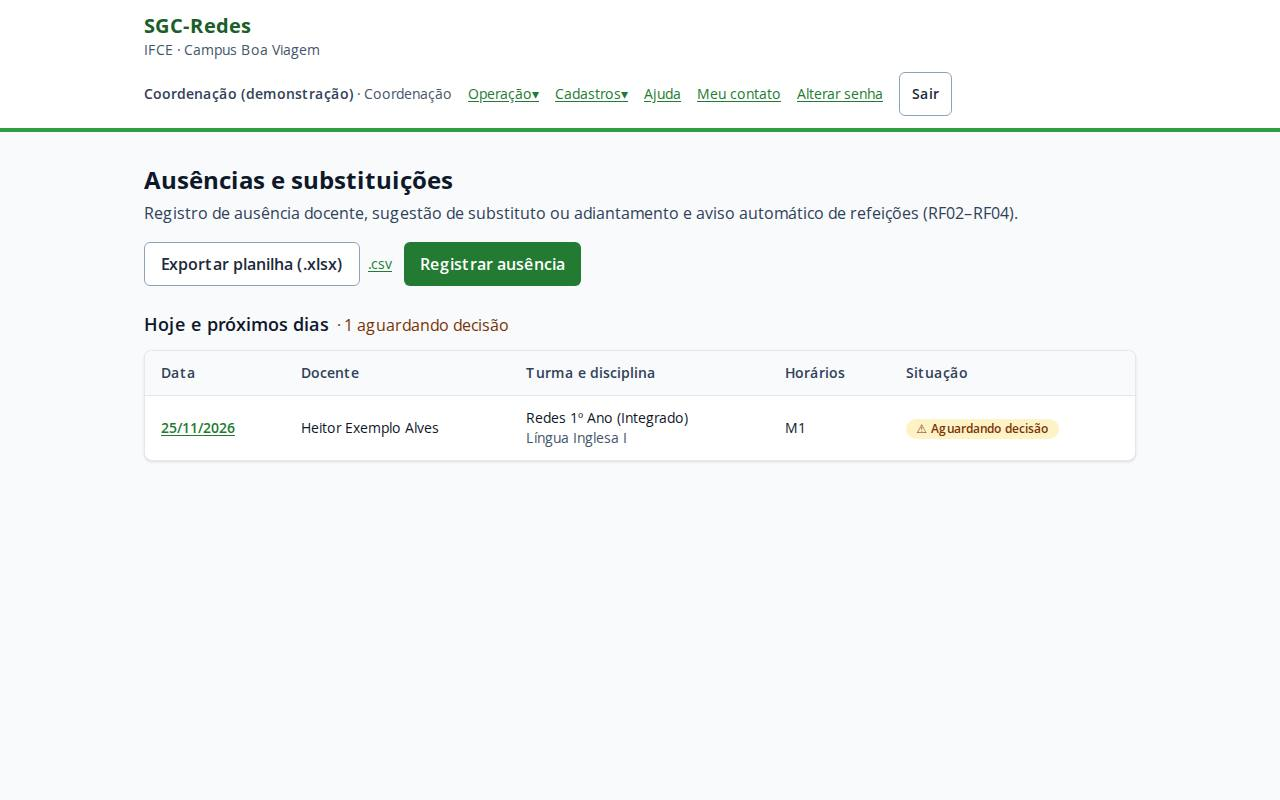
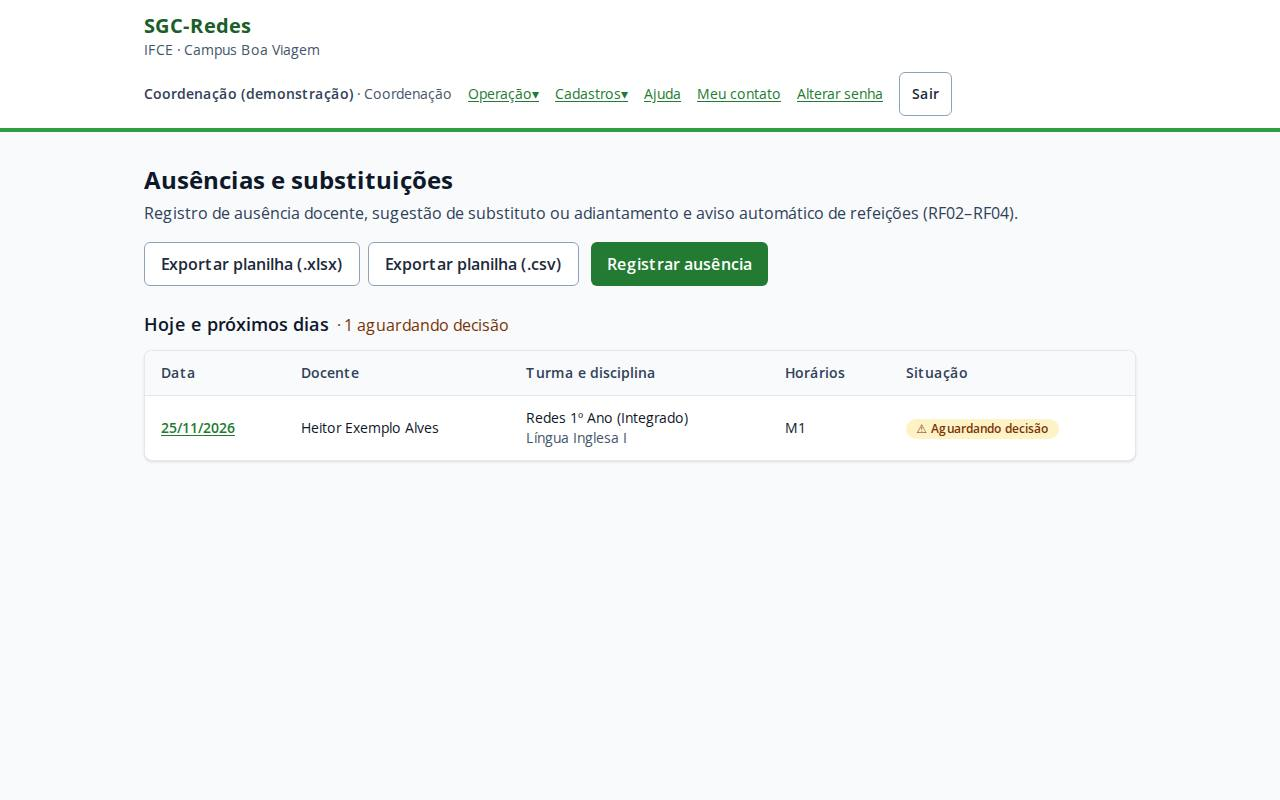
Exporta .csv por botão e atualiza o roteiro de retomada
- O formato .csv passa a ter botão do mesmo peso do .xlsx em todas as
  listagens exportáveis; capturas da Ajuda refeitas.
- Roteiro de próximos passos reescrito: estado atual, pendências do
  usuário e backlog priorizado após o primeiro pull request.

Claude-Session: https://claude.ai/code/session_01LR1XNKAMkuHKrbSHAQcsFo

Changed region(s): [[0.2812, 0.2812, 0.625, 0.375]]

diff --git a/src/components/barra-impressao.tsx b/src/components/barra-impressao.tsx
@@ -25,16 +25,20 @@ export function LinkImpressao({ href, children = 'Imprimir / PDF' }: { href: str
   );
 }
 
-/** Baixa a listagem em planilha (.xlsx; o .csv fica em ?formato=csv). Link comum: funciona sem JavaScript. */
+/**
+ * Baixa a listagem em planilha: dois botões do mesmo peso, .xlsx (Excel/LibreOffice) e .csv (texto, para outros
+ * sistemas). Links comuns estilizados como botão: funcionam sem JavaScript.
+ */
 export function LinkExportar({ href, children = 'Exportar planilha' }: { href: string; children?: React.ReactNode }) {
   const csv = `${href}${href.includes('?') ? '&' : '?'}formato=csv`;
+  const classe = 'inline-flex min-h-11 items-center rounded-md border border-slate-400 bg-white px-4 font-semibold text-slate-800 hover:bg-slate-100';
   return (
-    <span className="inline-flex flex-wrap items-center gap-2">
-      <a href={href} className="inline-flex min-h-11 items-center rounded-md border border-slate-400 bg-white px-4 font-semibold text-slate-800 hover:bg-slate-100">
+    <span role="group" aria-label="Formatos de exportação" className="inline-flex flex-wrap items-center gap-2">
+      <a href={href} className={classe}>
         {children} (.xlsx)
       </a>
-      <a href={csv} className="text-sm text-if-verde-700 underline underline-offset-2">
-        .csv
+      <a href={csv} className={classe}>
+        {children} (.csv)
       </a>
     </span>
   );

diff --git a/docs/PROXIMOS_PASSOS.md b/docs/PROXIMOS_PASSOS.md
@@ -1,7 +1,7 @@
 # Próximos Passos — Retomada do Desenvolvimento
 
-> Atualizado em **24/11/2026** (Fase 1 e 2 completas; comunicação por e-mail institucional sem depender do WhatsApp). Leia este arquivo inteiro antes de continuar. Ele resume o estado do projeto, o que
-> depende do usuário, o que fazer em seguida e as armadilhas já encontradas (para não redescobri-las).
+> Atualizado em **24/11/2026**, ao abrir o **primeiro pull request** no repositório original. Leia este arquivo inteiro
+> antes de continuar: estado do projeto, o que depende do usuário, o backlog e as armadilhas já encontradas.
 
 ---
 
@@ -9,147 +9,107 @@
 
 ```bash
 cd ~/projetos/sgc-redes-bvg
-git status && git log --oneline -20         # branch minha-contribuicao; enviada ao fork em 24/11/2026 (pergunte antes de novos push)
-./scripts/dev.sh testar                      # esperado: typecheck ok + 373 testes passando
-ls .handoff/github .handoff/e2e              # rascunhos de issue/PR e roteiros E2E (local, fora do git)
+git status && git log --oneline -8          # branch minha-contribuicao, sincronizada com o fork
+gh pr view __PR__ -R cctrc-bvg/sgc-redes-bvg # situação do PR (comentários da revisão)
+./scripts/dev.sh testar                     # esperado: typecheck ok + 380 testes passando
 ```
 
-Depois, confira a seção 3 (o que depende do usuário) antes de escolher a próxima tarefa na seção 4.
+Para ver o sistema com dados: `./scripts/dev.sh dev` num banco de desenvolvimento com
+`npm run db:demo -- --confirmo` (usuários `@exemplo.edu.br`, senha `Demonstracao2026`). Regras e arquitetura:
+[CONTRIBUTING.md](../CONTRIBUTING.md) e [Guia do contribuidor](desenvolvimento/GUIA_DO_CONTRIBUIDOR.md).
 
 ---
 
 ## 2. Estado atual
 
-**Repositórios:** `origin` = fork `isaacmiranda/sgc-redes-bvg` (admin); `upstream` = `cctrc-bvg/sgc-redes-bvg`
-(somente leitura; contém só o commit inicial com a licença). FSD, README e código existem só no fork.
+**Repositórios:**
+- `origin` = fork `isaacmiranda/sgc-redes-bvg` (público, admin), branch `minha-contribuicao`, CI verde.
+- `cctrc-bvg/sgc-redes-bvg` = original (usuário só tem leitura). Contém só o commit inicial.
+- **PR __PR__** (`minha-contribuicao` → `main`): versão inicial completa, 48 commits. O texto está em
+  `.handoff/github/pr-minha-contribuicao.md`.
+- **Novos commits no branch entram automaticamente no PR.** Por isso, peça confirmação antes de cada push.
 
-**Branch `minha-contribuicao`** — **sem PR aberto**. Enviada ao fork em 24/11/2026 com autorização do usuário; CI verde
-no GitHub. Novos `git push` continuam pedindo confirmação:
+**Pronto (Fases 1 e 2 do FSD + extras):**
+- Base: login/sessões, RBAC (5 perfis), auditoria, painel com pendências, Meu contato.
+- Cadastros: usuários, turmas, disciplinas (matriz do PPC), ofertas.
+- Operação:
+  - calendário acadêmico;
+  - grade (RF01) e sábados letivos;
+  - ausências e convites (RF02);
+  - alimentação (RF03/04);
+  - comunicação semiautomática por e-mail ou WhatsApp (RF05): textos-padrão, mensagem avulsa, grupos de docentes,
+    nutricionista, comunicar alterações da alimentação e do calendário.
+- Gestão: PPE/PEI (RF06), PPI (RF07), diários (RF08), processos SEI (RF09), relatórios.
+- Planilhas e PDF:
+  - importação com prévia: usuários, disciplinas, ofertas, grade, calendário, sábados;
+  - exportação .xlsx/.csv de todas as listagens;
+  - PDF do calendário, das grades, dos relatórios, do PEI e da ficha de PPI.
+- Documentação:
+  - Ajuda no sistema (`/ajuda`, 14 tópicos com capturas);
+  - `docs/MANUAL_DO_USUARIO.md` (gerado);
+  - CONTRIBUTING, guia do contribuidor, modelos de issue/PR;
+  - dados de demonstração (`prisma/demo.ts`).
 
-| Commit | Conteúdo |
-| :--- | :--- |
-| `8ebdce6` | Projeto executável: Next 16, React 19, Prisma 6, Tailwind 4, Vitest; Dockerfile multi-stage; migração inicial |
-| `63a28c9` | `docs/IDENTIDADE_VISUAL_UX.md` (Marca IF, contraste, Nielsen, WCAG/eMAG) + tokens de cor e Open Sans |
-| `1217372` | Correção: progresso da PPI mostrava 100% com 39,9h |
-| `1be36a8` | Testes das regras de alimentação/SLA/PEI/PPI; tabela PPI em `src/lib/ppi-regras-2022.ts` |
-| `605ec1c` | `scripts/dev.sh` (setup, testar, banco nativo/docker, dev, studio, docker, tudo) |
-| `fd88bb4` | Login, sessões no banco, RBAC do FSD, troca obrigatória de senha, auditoria; seed sem senha fixa |
-| `b62b737` | Cadastro/gestão de usuários pela Coordenação (`/usuarios`) |
-| `2389278`, `a8d3a5f` | Este roteiro; `AGENTS.md` versionado |
-| `d3cb489` | Correção: motor de alimentação valida a data (formato e calendário) |
-| `126dc21` | Catálogo de Disciplinas (`/disciplinas`), `disciplinas:gerenciar`, `Disciplina.ativa` |
-| `9dc1367` | Consulta ao catálogo (Professor, CTP, Direção: `disciplinas:ver`); matriz do PPC e blocos (G01) no seed |
-| `5afbbb0` | Núcleo, ano e semestre da disciplina (técnicas semestrais, 50% prática) |
-| `888653b` | Matriz do 3º ano corrigida: siglas SEGR, EB, PRD, RSF; Projeto de Redes 80h |
-| `ae6face` | Ofertas: distribuição de disciplinas por turma e ano letivo (`/ofertas`, `ofertas:gerenciar`) |
-| `e01c1e1` | Grade horária (RF01): turma, minha grade, edição com trava de choque, janelas, sábados letivos (G14) |
-| `060369d` | Importação em lote (.xlsx/.csv) de disciplinas e usuários, com modelos pré-preenchidos |
-| `91723c9` | Este roteiro atualizado para a retomada |
-| `0368890` | Cadastro de turmas (`/turmas`, `turmas:gerenciar`): ativos, médias de refeição, ano do curso, ativar/excluir |
-| `239604c` | Decisões G02–G13 registradas (padrões do FSD aceitos pelo usuário) |
-| `4ad4be3` | Sessões vencidas apagadas a cada login |
-| `0f79565` | **Fase 1:** ausências e coberturas (RF02), avisos de refeição e painel da AE (RF03/RF04, G02–G06, G13), comunicação semiautomática (RF05, G07/G08) |
-| `8805b79` | Tela de auditoria (`/auditoria`) |
-| `3ac54fe` | Kanban de processos SEI (RF09, `/processos`) com sigilo só para a Coordenação |
-| `48320ba` | Semáforo de diários (RF08, `/diarios`) + calendário do semestre (`PeriodoLetivo`) |
-| `e89d496` | PPI 40h (RF07, `/ppi`): tetos acumulados por categoria, certificado único, ficha para assinatura |
-| `79b0026` | PPE/PEI (RF06, `/ppe`): Art. 115, travas dos Arts. 117/121, cronograma, cópia de cronograma (G09) |
-| `6dc096e` | Relatórios consolidados (`/relatorios`), sem dados pessoais |
-| `de5ec21` | Importação em lote de ofertas e sábados letivos |
-| `d6bfb6a` | Este roteiro atualizado (madrugada) |
-| `525ef78` | CI no GitHub Actions: typecheck, testes e build (`.github/workflows/ci.yml`) |
-| `8b2562c` | PEI para impressão (`/ppe/[id]/imprimir`) |
-| `2f022d2` | Convite de substituição: Coordenação convida, docente aceita/recusa em "Minha grade" |
-| `f4b53a4` | Cabeçalho da Coordenação com menus "Operação" e "Cadastros" (`<details>`, sem JS) |
-| `124b677`, `a1c5672` | Pendências nos cards do painel; este roteiro |
-| `d3bb879` | **Comunicação sem depender do WhatsApp:** mensagens prontas com e-mail institucional, campos `{{...}}`, cópia; "Meu contato" |
-| `352024c` | Textos-padrão; nutricionista; máscara de telefone; CSV com tabulação; menus; seed no Docker |
-| *(penúltimo)* | Textos-padrão editáveis; avulsa com vários destinatários, grupos de docentes e campos; comunicar alterações da Alimentação |
-| *(último)* | Calendário acadêmico (etapas N1–N4, eventos, contagem de dias letivos); impressão/PDF; exportação em planilha |
-
-**Telas** (todas funcionam sem JavaScript):
-- Acesso: `/login`, `/painel` (cards por perfil; **todos os módulos já abrem**), `/conta/senha`, `/conta/contato`
-  (cada pessoa decide se o WhatsApp dela é usado; desligado = só e-mail).
-- Coordenação: `/usuarios` (+`/novo`, `/[id]`, `/[id]/senha`, `/importar`), `/disciplinas/nova`, `/disciplinas/importar`,
-  `/turmas` (+`/nova`, `/[id]`), `/ofertas` (+`/importar`), `/ofertas/[turmaId]?ano=AAAA`, `/grade/turma/[id]/editar`,
-  cadastro em `/grade/sabados` (+`/importar`), `/ausencias` (+`/nova`, `/[id]`), `/comunicacao`, `/auditoria`,
-  `/processos` (+`/novo`, `/[id]`), `/diarios` (+`/[ofertaId]`), `/ppi` (+`/nova`, `/[id]`, `/[id]/ficha`), `/ppe/nova`.
-- Assistência Estudantil: só `/alimentacao` (previsão por turma, avisos, ciência). Coordenação também lança acréscimos
-  (`/alimentacao/adicionar`, G05) e ajusta quantidades (G04).
-- Professor: `/grade/minha` mostra substituições/adiantamentos dos próximos 14 dias; `/diarios` (só os próprios);
-  `/ppe` e `/ppe/[id]` das disciplinas que leciona no ano (define modalidade, preenche o PEI, encerra).
-- CTP: `/ppe` (leitura, Art. 127), `/processos` (leitura, sem sigilosos), `/relatorios`. Direção: `/relatorios`.
-- Consulta (Professor, CTP, Direção conforme permissão): `/disciplinas`, `/disciplinas/[id]`, `/grade`, `/grade/minha`,
-  `/grade/turma/[id]`, `/grade/sabados`. Período da grade por `?ano=AAAA&sem=1|2`.
-- Modelos de planilha (`?formato=xlsx|csv`): `/disciplinas/importar/modelo`, `/usuarios/importar/modelo`,
-  `/ofertas/importar/modelo` (`&ano=AAAA`), `/grade/sabados/importar/modelo`.
-
-**Dados no seed** (idempotente; nunca sobrescreve edições): coordenador inicial, turmas `REDES-1..3` (com `anoCurso`;
-editáveis em `/turmas`),
-grupos e setores de comunicação (saudação padrão só para professores e líderes), regras PPI, 8 blocos de horário (A–D manhã/tarde, 60 min) e as **47 disciplinas da matriz**.
-
-**Verificado:** 322 testes unitários, typecheck, `next build` e 14 roteiros E2E sem JavaScript contra PostgreSQL
-real, todos verdes em 24/11/2026: login, usuários, disciplinas, ofertas, grade, importação, turmas, ausências (inclui comunicação, auditoria e relatórios), alimentação, processos, diários, PPI, PPE e importação de ofertas/sábados.
-As migrações que convertem dados (ofertas e grade) foram testadas com linhas no formato antigo.
-
-**Docker:** `./scripts/dev.sh docker` testado pelo usuário em 24/11/2026: build ok; o seed falhava no contêiner de migração
-(faltavam arquivos de `src/lib`), corrigido no Dockerfile; app respondeu em :3000. ExcelJS no `standalone` ainda não conferido.
+**Verificado em 24/11/2026:**
+- 380 testes unitários, typecheck e build;
+- roteiros E2E sem JS (16 roteiros em `.handoff/e2e`, local);
+- `docker compose up --build` com migração incremental sobre banco existente;
+- teste manual no navegador com JS, feito pelo usuário;
+- histórico do git sem dados reais: o branch foi reescrito em 24/11 para remover um telefone real dos testes.
 
 ---
 
 ## 3. Pendências que dependem do usuário
 
-- [ ] **Atualizar o banco Docker de desenvolvimento** (`sgc_dev_db`, já rodando): `./scripts/dev.sh banco docker` aplica
-      as migrações novas e o seed; depois `./scripts/dev.sh dev` e testar no navegador. Se esse banco recebeu a matriz
-      numa versão anterior, Projeto de Redes pode estar com 40h (o seed não sobrescreve CH): corrigir pela tela.
-      Obs.: o usuário já está no grupo `docker`; uma sessão de terminal antiga precisa de `sg docker -c "..."`.
-- [ ] **Testar a stack Docker completa:** `./scripts/dev.sh docker` (senha inicial em `docker compose logs migrate`).
-      Riscos: Prisma no Alpine (openssl/musl), motor do Prisma e **ExcelJS** no `standalone`. É pesado para 4 GB de RAM.
-- [x] ~~Enviar os commits da madrugada ao fork~~ — enviados em 24/11/2026; primeira execução do CI no GitHub passou.
-- [ ] **Testar no navegador com JavaScript** os módulos novos (os E2E são sem JS). Em especial a página da ausência
-      (caixas de mensagem: copiar, colar, substituir campos, abrir no e-mail) e a Alimentação vista pela AE.
-- [ ] **Cadastrar em `/comunicacao`** o e-mail institucional e a saudação de cada grupo/setor (CAE, CTP, Gestão,
-      professores, turmas). Sem isso as mensagens saem com "Para" vazio e um campo `{{...}}` na saudação.
-- [ ] **Testar as planilhas de exemplo** (local, fora do git, têm nomes reais da grade 2026):
-      `.handoff/planilhas-exemplo/1-usuarios-professores-exemplo.xlsx` (Usuários › Importar) e depois
-      `2-ofertas-2026-exemplo.xlsx` (Ofertas › Importar). E-mails fictícios `@exemplo.com`. Artes II (REDES-1 e 3) e
-      Servidores (REDES-3) ficaram de fora por não serem da matriz do ano da turma.
-- [ ] **Configurar `APP_URL`** no servidor de produção: as mensagens aos docentes trazem o link de "Minha grade".
-- [x] ~~Envio automático (Evolution API)~~ — **decidido em 24/11/2026: continuar semiautomático** (e-mail ou WhatsApp Web
-      com o texto pronto). O código da Evolution fica, desligado, para o futuro.
-- [ ] **Publicação no `cctrc-bvg`** — **decidido: depois do teste no navegador, issue + PR a partir do fork.** Textos em
-      `.handoff/github/` (o PR tem o item "Docker" a marcar após o teste e um `#<número>` da issue).
-      **Confirmar com o usuário antes de criar issue/PR** no repositório da organização.
-- [x] ~~Responder G02–G13~~ — **padrões do FSD aceitos em 24/11/2026** (FSD, seção 5). Todas as decisões G01–G14 fechadas.
-- [x] ~~Grade 2026 × matriz~~ — o usuário confirmou (24/11/2026) que a turma de 2026 tem as aulas normais e que Geografia
-      é anual: a grade 2026 vale como está; a marca "⚠ difere" é só informativa.
+- [ ] **Acompanhar a revisão do PR __PR__** e responder aos comentários. Correções viram commits novos no mesmo branch,
+      sem reescrever o histórico durante a revisão.
+- [ ] **Antes de reiniciar a máquina:** `sudo TMPDIR=/var/tmp dpkg --configure -a`. O pacote do kernel 7.0.0-44 ficou
+      meio configurado porque o `/tmp` (tmpfs de 512 MB) encheu.
+- [ ] **Cadastrar em Comunicação** o e-mail institucional e a saudação de cada grupo/setor, incluindo a nutricionista.
+- [ ] **Configurar `APP_URL`** (https) no servidor de produção.
+- [ ] **VM de produção no Proxmox** (Docker Compose), com backups do PostgreSQL e HTTPS (proxy reverso).
+- [ ] Testar as planilhas de exemplo com dados reais (`.handoff/planilhas-exemplo/`, fora do git).
 
 ---
 
 ## 4. Backlog priorizado
 
-### P1 — próximos passos
+### P1 — próximos passos (em ordem)
 
-1. **Testes E2E versionados** — migrar `.handoff/e2e/` (Python, sem JS) para Playwright no projeto, + roteiros com JS.
-2. ~~CI~~ feito e verde no GitHub (actions na v5, sem o aviso de Node 20).
-3. **`prisma.config.ts`** — o Prisma avisa que `package.json#prisma` (seed) será removido no Prisma 7. **Cuidado:** com o
-   arquivo de configuração o Prisma 6 deixa de carregar o `.env` sozinho (precisa de `import 'dotenv/config'`), o que afeta
-   `scripts/dev.sh` e o Dockerfile (`npx prisma db seed`). Fazer junto com o teste da stack Docker.
-4. ~~Impressão do PEI~~ feito (`/ppe/[id]/imprimir`); conferir com o modelo em papel do campus.
-5. ~~G05 integrado ao PEI~~ — decidido manter manual (ver decisões abaixo).
-6. ~~Convite de substituição~~ feito, com mensagem pronta ao convidado (e-mail ou WhatsApp).
-7. ~~Cabeçalho agrupado~~ feito. Os menus `<details>` ficam abertos ao navegar no cliente; fechar com JS se incomodar.
-8. **Mensagens prontas em outros módulos:** Alimentação (acréscimo, ajuste, ciência) e calendário (alteração imprevista ou
-   suspensão → `/calendario/eventos/[id]/comunicar`) já levam a comunicar; decisões de PPI/PPE ainda não geram caixa de
-   mensagem (usar a mensagem avulsa de `/comunicacao`).
-9. ~~Textos-padrão editáveis~~ feito (`/comunicacao/modelos`, tabela `ModeloMensagem`; os de `modelos.ts` são o conjunto inicial).
-10. ~~Importação da grade horária por planilha~~ feito (`/grade/importar`, modos completar/substituir, confere choques
-    de horário; o modelo de uma grade vazia traz uma linha por aula semanal prevista). O PDF do aSc segue como referência
-    em `.handoff/planilhas-exemplo/2-ofertas-2026-exemplo.xlsx`, aba "Grade do PDF".
-11. ~~Importação do calendário por planilha~~ feito (`/calendario/importar`): mesmo formato da exportação; para copiar
-    um ano, exportar, trocar as datas e importar no novo ano.
-12. ~~Relatórios em PDF/planilha e exportação do histórico de comunicação~~ feito (`/relatorios/imprimir`,
-    `/exportar/relatorios`, `/exportar/comunicacao`).
+1. **Revisão do PR:** responder aos comentários do repositório original. É prioridade sobre funcionalidade nova.
+2. **Testes E2E versionados com Playwright:**
+   - migrar os roteiros de `.handoff/e2e/` (Python, sem JS, fora do git) para `e2e/` no projeto;
+   - incluir roteiros com JS: caixas de mensagem, formulário de mensagem avulsa, menus;
+   - rodar no CI com PostgreSQL de serviço e `db:demo`.
+   - O Playwright já está instalado (`@playwright/test` 1.56.1). Nesta máquina (Ubuntu 26.04) é preciso
+     `PLAYWRIGHT_HOST_PLATFORM_OVERRIDE=ubuntu24.04-x64` e `TMPDIR=~/.cache/sgc-tmp`.
+   - Decisão de 24/11: só smoke tests no CI.
+3. **`prisma.config.ts`** (o Prisma 7 remove `package.json#prisma`):
+   - com o arquivo de configuração, o Prisma 6 deixa de carregar o `.env` sozinho (`import 'dotenv/config'`), o que
+     afeta `scripts/dev.sh`, o Dockerfile (`npx prisma db seed`) e o `db:demo`;
+   - testar com `./scripts/dev.sh docker`.
+4. **Mensagens prontas nas decisões de PPI e PPE:** deferimento, modalidade definida, PEI pronto.
+   - Seguir o padrão de `src/lib/calendario/mensagens.ts` e `/calendario/eventos/[id]/comunicar`.
+   - Criar tópico na Ajuda.
+5. **Implantação em produção:**
+   - VM no Proxmox com Docker Compose, HTTPS (proxy reverso) e `APP_URL`;
+   - backup diário do PostgreSQL (`pg_dump`) com retenção;
+   - documentar em `docs/IMPLANTACAO.md`.
+6. **Conferir o PEI impresso** com o modelo em papel do campus.
+
+### P2 — depois
+
+- Integração com o SUAP (decidido: depois).
+- Envio automático pela Evolution API: o código existe, desligado (decidido: semiautomático).
+- Fase 3 (FSD): laboratórios, estoque/DAP, atas e eventos.
+- Menus `<details>` do cabeçalho: já fecham com JS (`FecharMenus`); sem JS continuam abertos ao navegar.
+
+### Concluídos em 24/11/2026
+
+Calendário acadêmico e importação por planilha; grade por planilha; relatórios em PDF e planilha; exportação de todas
+as listagens (.xlsx e .csv, com botões); textos-padrão editáveis; mensagem avulsa com vários destinatários e grupos de
+docentes; nutricionista; comunicar alterações da alimentação e do calendário; Ajuda, manual e guia do contribuidor;
+dados de demonstração; impressão do PEI; convites de substituição; CI.
 
 ### Decisões de 24/11/2026 (sugestões aceitas pelo usuário)
 
